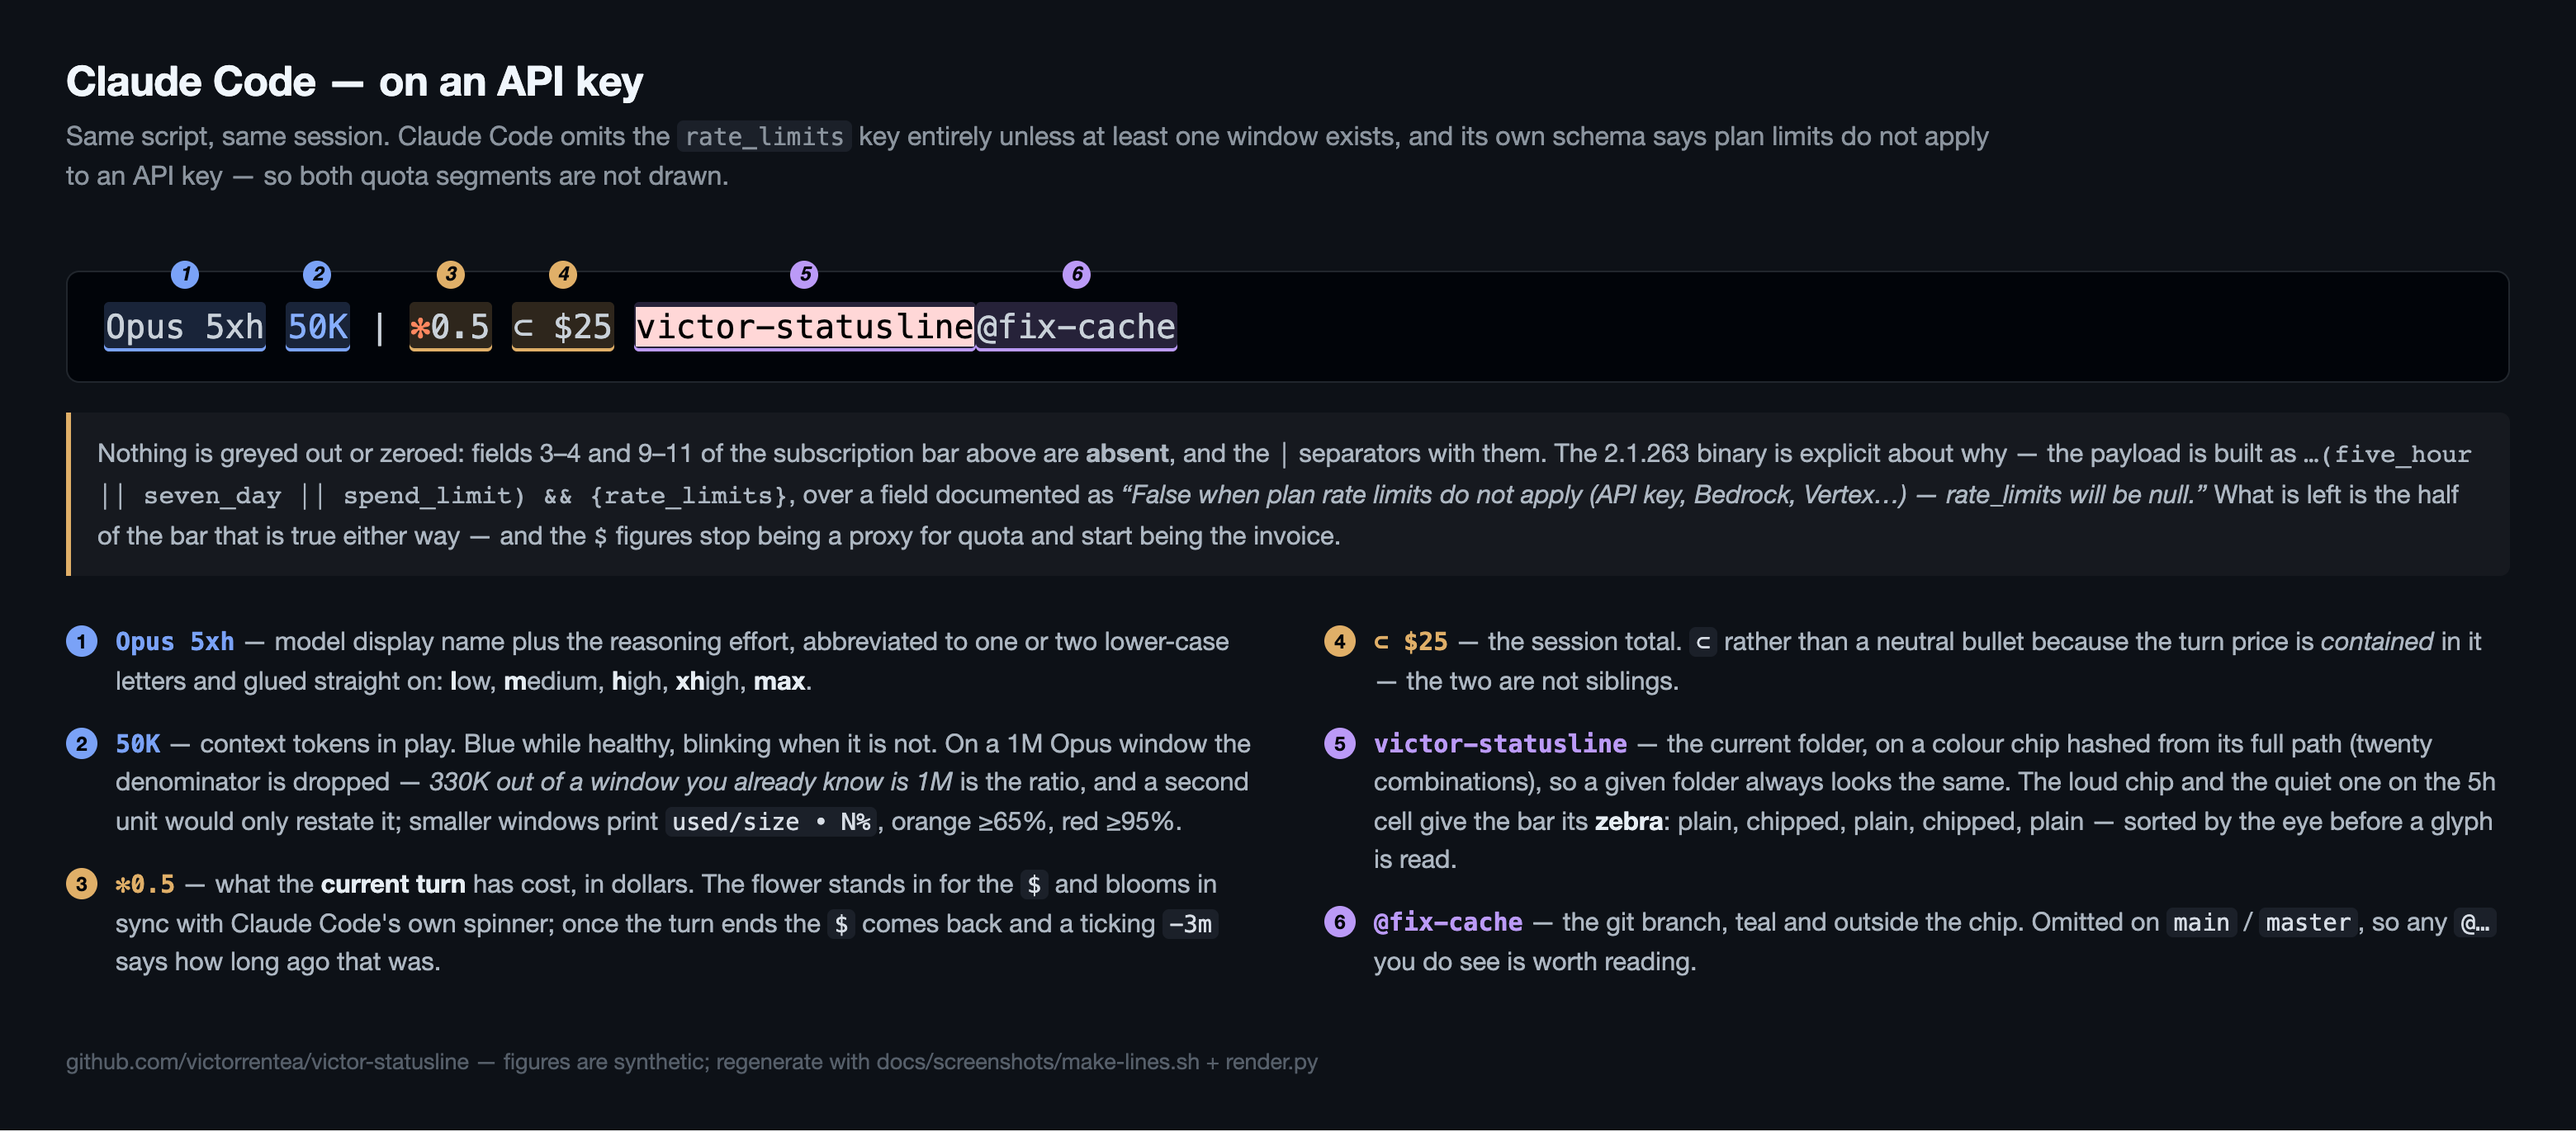
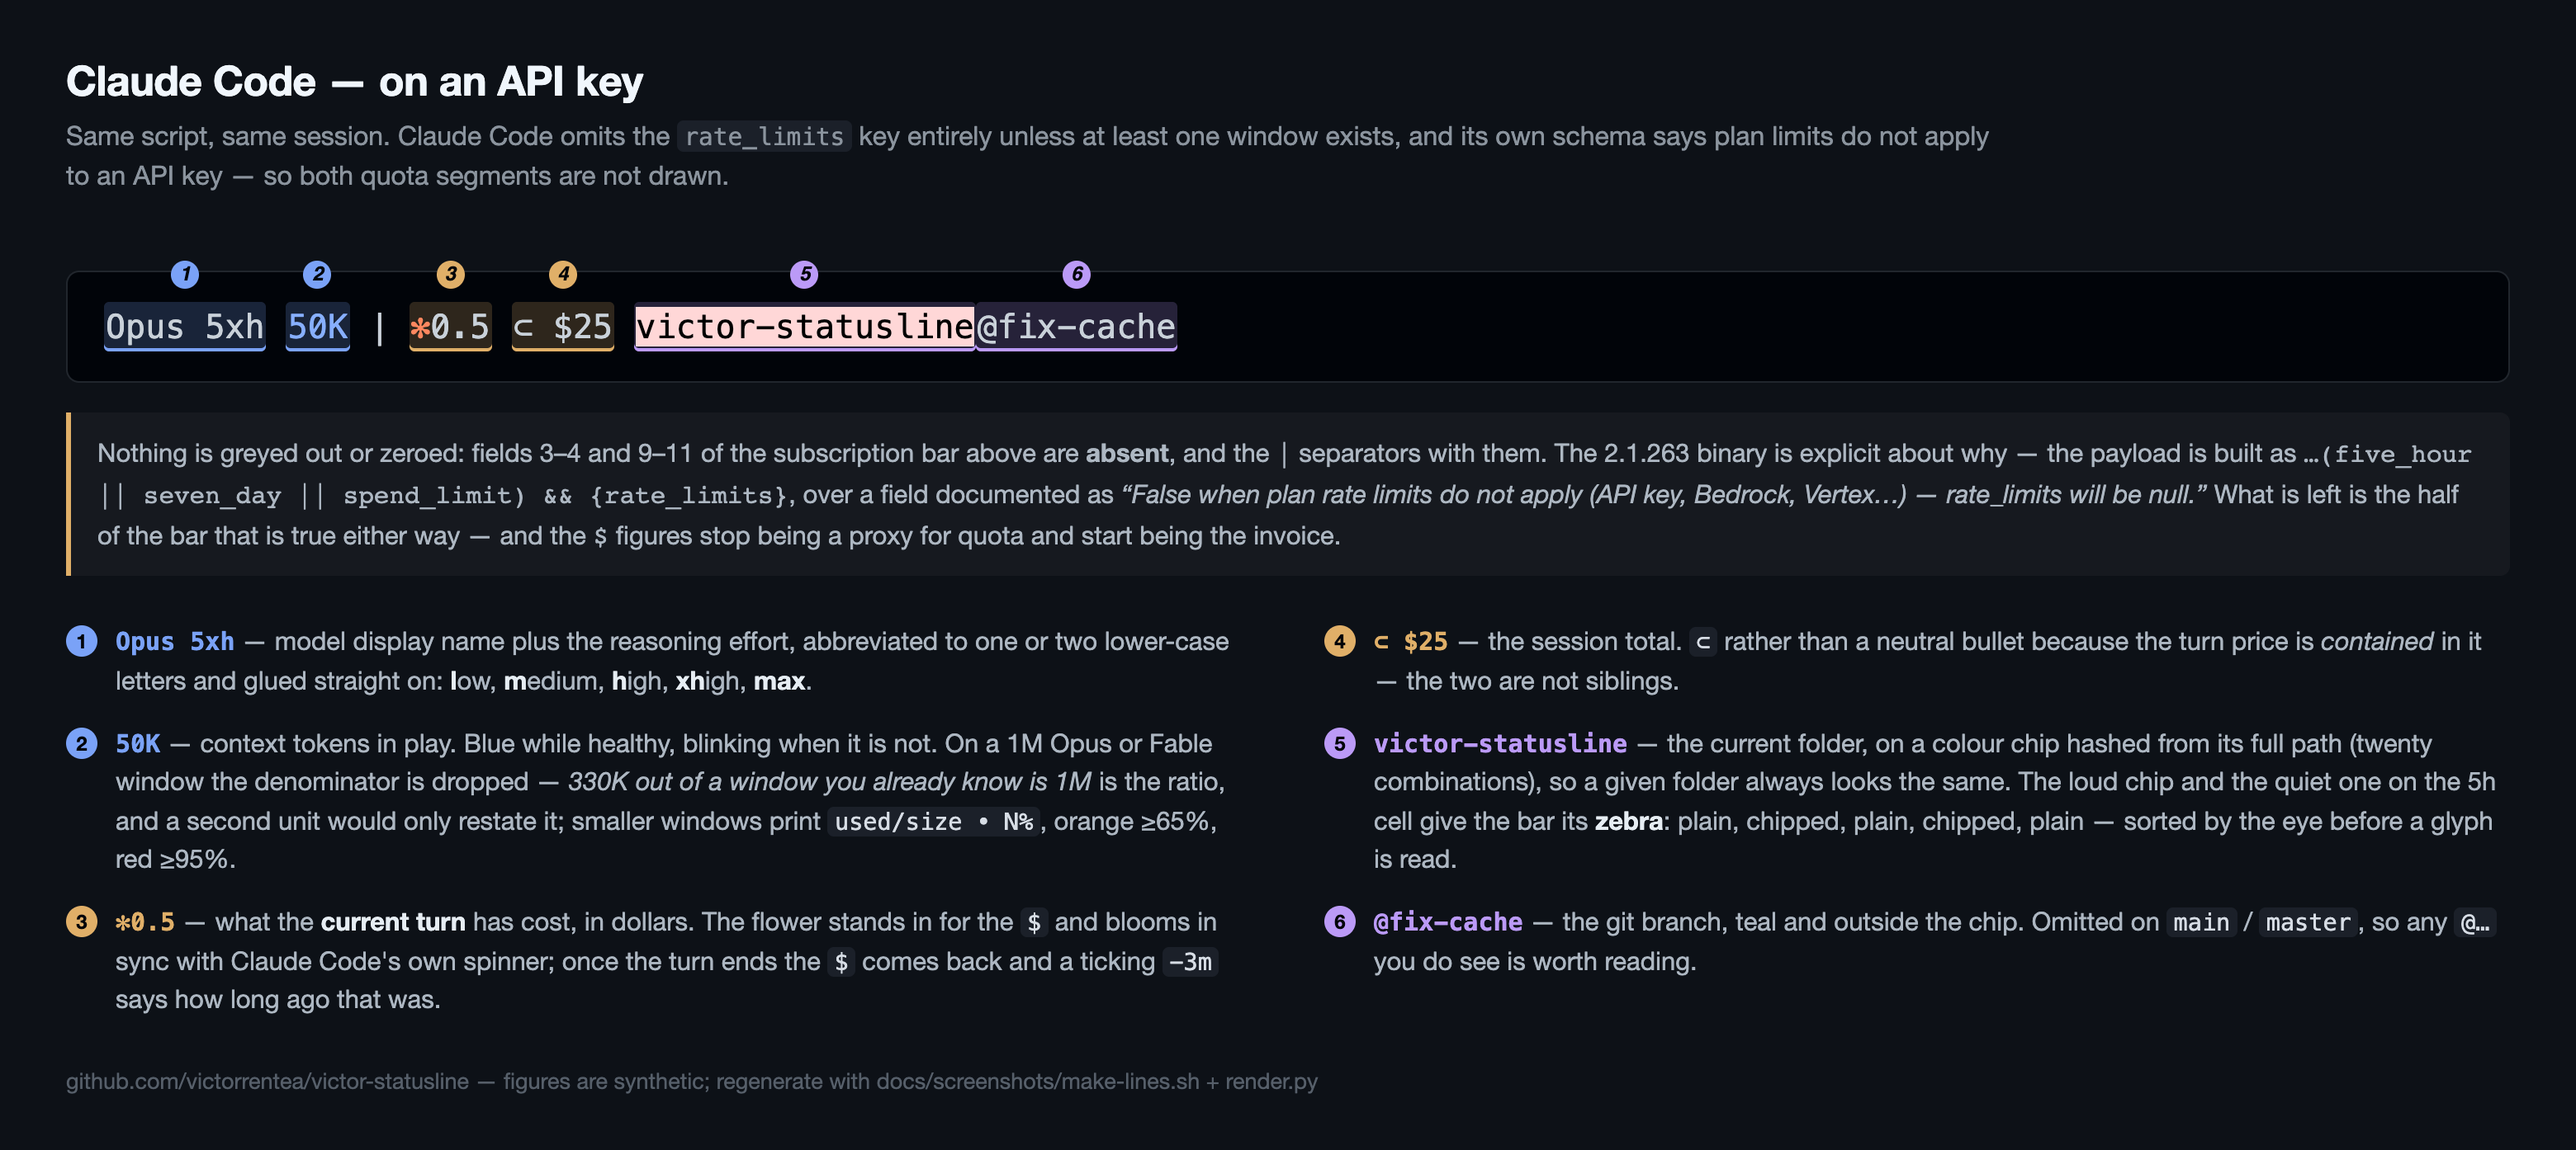
statusline: show the per-model weekly chip only on that model
The (F22%) chip is Fable's weekly cap. On an Opus or Sonnet session it is a
budget the turn cannot spend and cannot exhaust — three columns of someone
else's business in the cell the eye goes to for "how much room do I have", and
a figure that never moves while you watch it teaches the eye to skip the cell,
taking the account weekly glued beside it along with it.

So the chip is now scoped to the session the way the cap is scoped to the
model: the display name is matched case-folded against the endpoint's
scope.model.display_name, and the chip appears the moment the terminal switches
to that model — the same moment it starts describing that terminal. A park on
this very window is the one exception: there the cap is the reason nothing is
running at all, so it stays readable whatever model is selected.

The subscription screenshot is the only shot that can still show the chip, so
that one payload now runs on Fable and the annotated model regex takes both
names.

diff --git a/docs/screenshots/render.py b/docs/screenshots/render.py
@@ -92,13 +92,15 @@ GROUPS = {"model": "#7aa2f7", "5h": "#9ece6a", "spend": "#e0af68",
           "loc": "#bb9af7", "week": "#7dcfff"}
 
 CLAUDE_MODEL = [
-    (r"Opus 5xh", "model",
+    # Alternation, not a fixed name: the subscription shot runs on Fable (only
+    # there is the per-model chip drawn) and the rest on Opus.
+    (r"(?:Opus 5|Fable 5\.1)xh", "model",
      "model display name plus the reasoning effort, abbreviated to one or two "
      "lower-case letters and glued straight on: <b>l</b>ow, <b>m</b>edium, "
      "<b>h</b>igh, <b>xh</b>igh, <b>max</b>."),
     (r"\d+K(?= )", "model",
      "context tokens in play. Blue while healthy, blinking when it is not. On a 1M "
-     "Opus window the denominator is dropped — <i>330K out of a window you already "
+     "Opus or Fable window the denominator is dropped — <i>330K out of a window you already "
      "know is 1M</i> is the ratio, and a second unit would only restate it; smaller "
      "windows print <code>used/size • N%</code>, orange ≥65%, red ≥95%."),
 ]
@@ -159,7 +161,9 @@ SPECS = [
              "(<code>F</code> = Fable) — the letter only has to disambiguate against the "
              "figure it is glued to. Bracketed rather than welded with <code>=</code>, "
              "because this is a <b>different budget</b>, not another view of the one "
-             "before it. Absent on an account with no scoped cap."),
+             "before it. Absent on an account with no scoped cap, and absent while "
+             "you are on <b>another model</b>: a budget this session cannot spend is "
+             "three columns of someone else&#39;s business."),
             # The `wd` half is optional: the field drops units it does not need,
             # so late on a Friday it is a bare "13h". Anchored to the end of the
             # line because a bare \d+h would otherwise match inside "3h19".

diff --git a/claude/victor-claude-statusline.md b/claude/victor-claude-statusline.md
@@ -1069,7 +1069,7 @@ the pace is **joined to it by an `=`**, with no spaces, see below.
 |-------|---------|--------|
 | `+24=` | pace: **percentage points** off a straight line, `elapsed% − used%`; joined by `=` to the figure it qualifies, unspaced; **absent when it is 0** (see below) | derived |
 | `70%` | quota remaining this week, **account-wide** = `100 − used%` | `.rate_limits.seven_day.used_percentage` |
-| `(F22%)` | the same week for **one model**, when the account carries a scoped cap; absent otherwise | `quota.json` `.weekly_scoped`, written only by `quota-probe.sh` |
+| `(F22%)` | the same week for **one model**, shown only while **that model is the one in play** (`Fable …` here); absent otherwise | `quota.json` `.weekly_scoped`, written only by `quota-probe.sh` |
 | `1d1h` | **working** time until the weekly window resets (weekends excluded) | `.rate_limits.seven_day.resets_at` |
 
 Pace **leads** the absolute figure, mirroring the 5h arrow: the signed number is
@@ -1208,6 +1208,20 @@ the `=`; the chip is always a model. Three columns buy the distinction outright.
   dropped rather than shown: that is last week's budget.
 - **Absent when there is no cap.** An account with a single weekly limit gets
   exactly the cell it always had.
+- **Absent while you are on another model.** Fable's cap is a number about
+  Fable: on an Opus session it is a budget the turn cannot spend and cannot
+  exhaust, so it is three columns of someone else's business in the cell the
+  eye goes to for "how much room do I have" — and a figure that never moves
+  while you watch it teaches the eye to skip the cell, taking the account
+  weekly glued beside it along with it. The chip is therefore scoped to the
+  session the way the cap is scoped to the model: it appears the moment this
+  terminal switches to that model, which is the same moment it starts
+  describing this terminal. The match is `display_name` against the endpoint's
+  `scope.model.display_name`, case-folded, so a cap on any other model follows
+  the same rule without a second line of code.
+  The one exception is a **park** on this window (below): there the cap is the
+  reason nothing is running at all, so it stays readable whatever model happens
+  to be selected while you wait it out.
 
 The colour thresholds are the weekly figure's (orange under 15%, red under 5%),
 and a park caused by this cap puts its `💤` **inside the brackets** — hanging it
@@ -2954,13 +2968,40 @@ if [ -n "$week" ]; then
   # the cap, so an account with no scoped weekly shows the weekly cell it always
   # had.
   wchip=""
+  # --- ...and only while that model is the one in play
+  # The cap is a number about Fable. On an Opus session it is a budget this
+  # turn cannot spend and cannot exhaust: three columns of someone else's
+  # business parked in the cell the eye goes to for "how much room do I have",
+  # and a figure that never moves while you watch it teaches the eye to skip
+  # the cell -- taking the account weekly glued beside it along with it. So the
+  # chip is scoped to the session the way the cap is scoped to the model: it
+  # appears the moment this terminal switches to that model, which is the same
+  # moment it starts describing this terminal.
+  # The one exception is a park on this very window: there the cap is the
+  # reason nothing is running at all, so it has to stay readable whatever model
+  # happens to be selected while you wait it out.
+  wscoped_mine=""
+  case "$wscoped_label" in
+    ''|-) ;;
+    *)
+      # Matched on the UNTOUCHED display name (§the model cell rewrites $model)
+      # and case-folded both ways, because the label is the endpoint's
+      # `scope.model.display_name` and nothing promises the two spell the
+      # family with the same capitals.
+      mlc=$(printf '%s' "$model_name" | tr '[:upper:]' '[:lower:]')
+      slc=$(printf '%s' "$wscoped_label" | tr '[:upper:]' '[:lower:]')
+      case "$mlc" in *"$slc"*) wscoped_mine=1 ;; esac
+      ;;
+  esac
+  [ "$park_window" = weekly_scoped ] && wscoped_mine=1
   case "$wscoped" in
     ''|-|-1|*[!0-9.]*) ;;
     *)
       # A stored reading whose window has already turned over is last week's
       # budget; drop it rather than show a figure the account no longer holds.
-      if [ -z "$wscoped_reset" ] || [ "$wscoped_reset" = 0 ] \
-         || [ "$wscoped_reset" -gt "$(date +%s)" ] 2>/dev/null; then
+      if [ -n "$wscoped_mine" ] \
+         && { [ -z "$wscoped_reset" ] || [ "$wscoped_reset" = 0 ] \
+              || [ "$wscoped_reset" -gt "$(date +%s)" ] 2>/dev/null; }; then
         case "$wscoped_label" in
           ''|-) ;;
           *)

diff --git a/README.md b/README.md
@@ -11,7 +11,7 @@ explains not just *what* every glyph means but *why* it was designed that way,
 which is the part worth stealing.
 
 ```
-Opus 5xh 50K ↗88% / 3h19 ✻0.5 ⊂ $25 victor-statusline@fix-cache +19=70% (F22%) / 2wd13h
+Fable 5.1xh 50K ↗88% / 3h19 ✻0.5 ⊂ $25 victor-statusline@fix-cache +19=70% (F22%) / 2wd13h
 🤖 sonnet-5m 119/264K 45% | $0.09 ∈ Session: $0.42 | 74%↑ ($7.5/$10) left today | +17%⊂34% $68 (6759 AIC) / 7wd13h left
 ```
 
